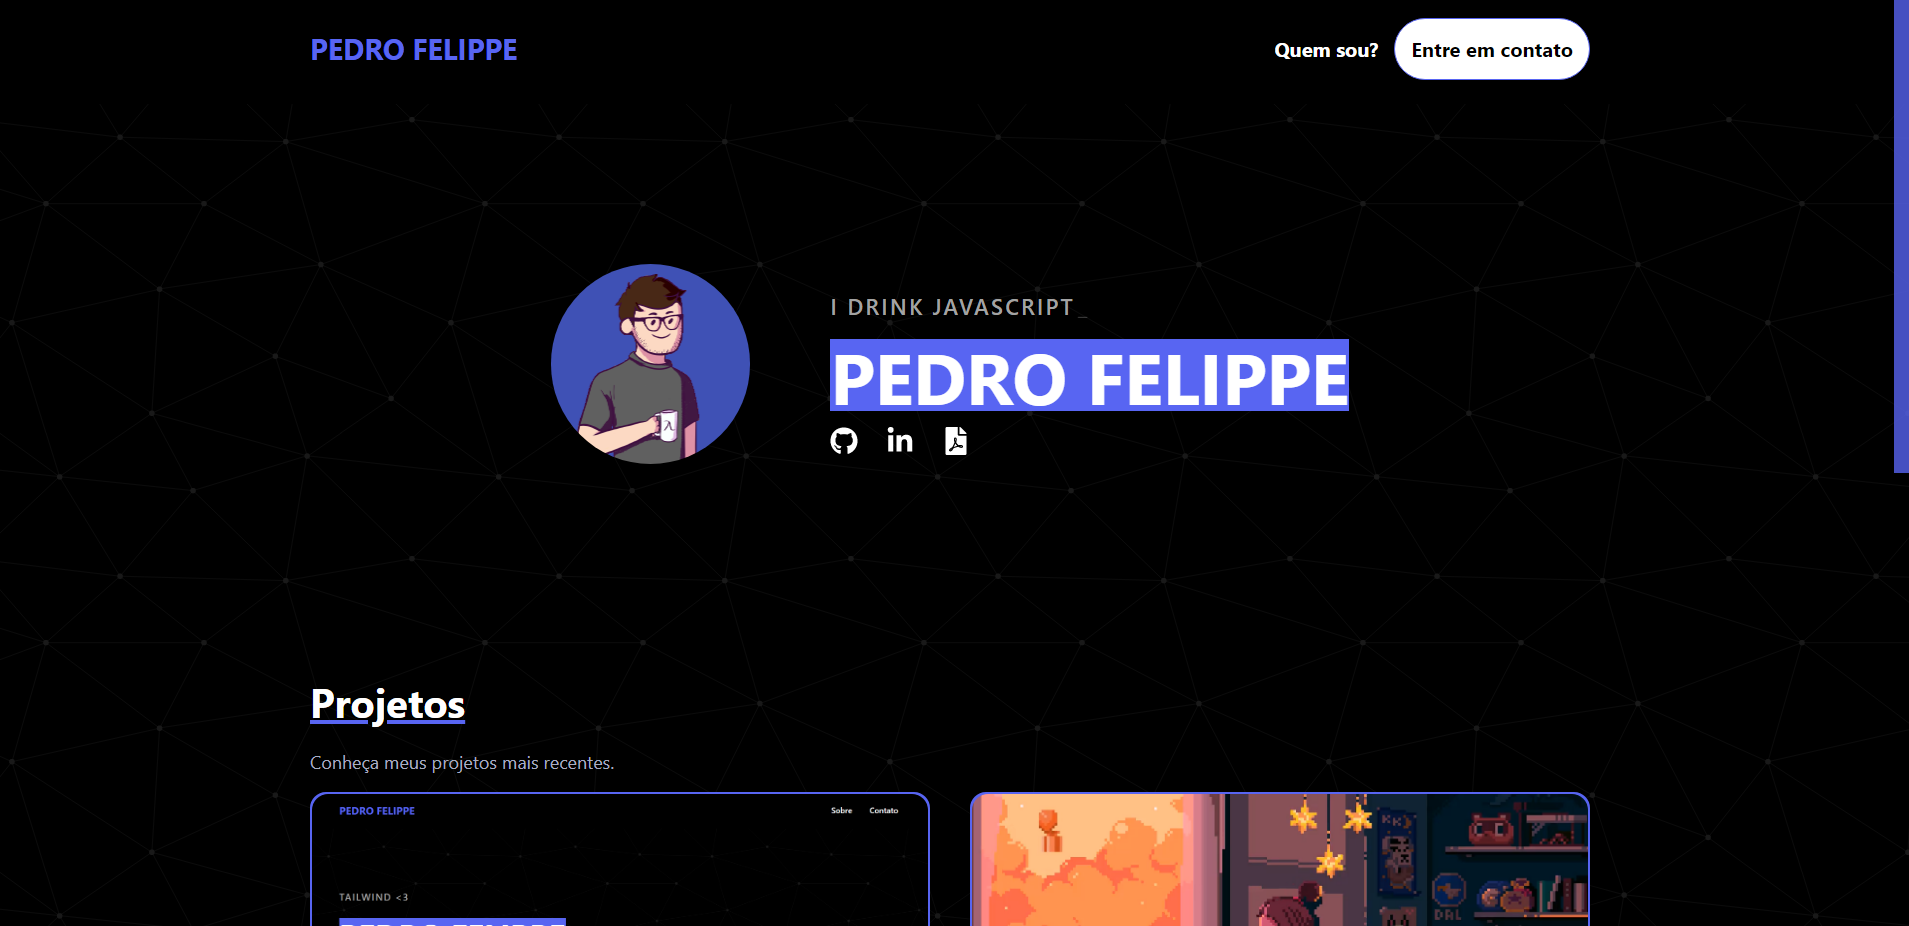
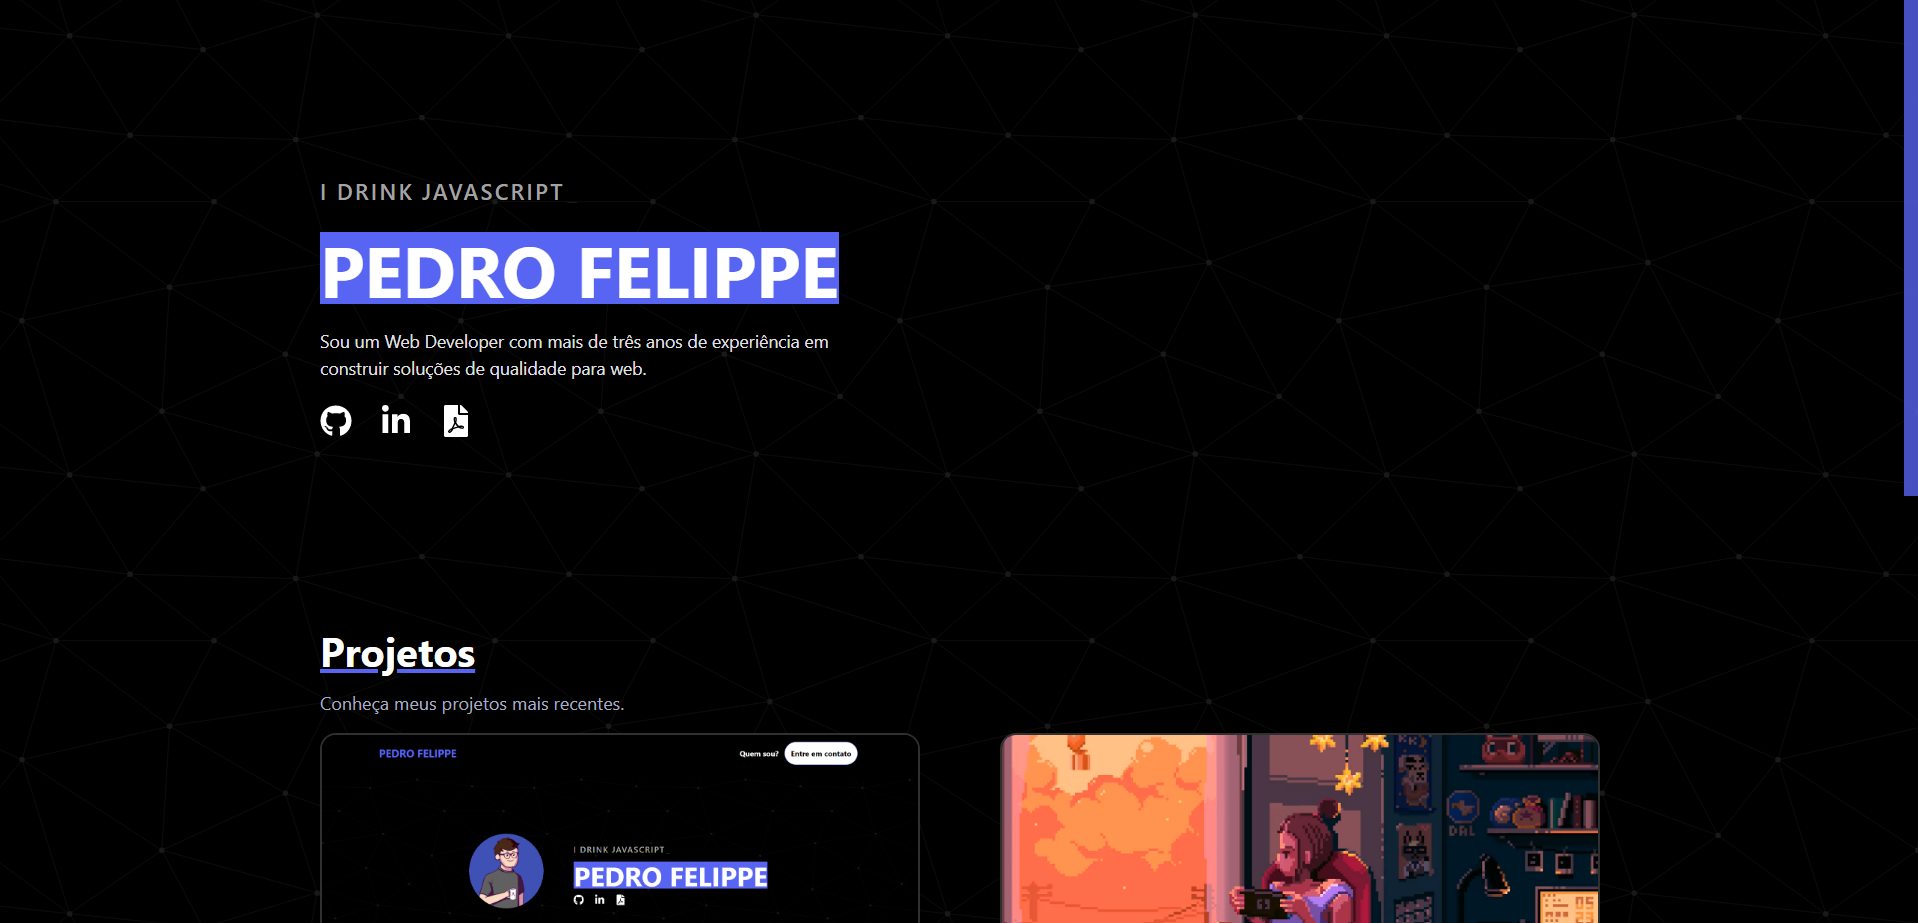
fix css

diff --git a/src/content/Hero.tsx b/src/content/Hero.tsx
@@ -1,5 +1,4 @@
 import { motion } from "framer-motion";
-import Link from "next/link";
 import React from "react";
 import { Typewriter } from "react-simple-typewriter";
 
@@ -8,19 +7,21 @@ import SocialLinks from "../components/SocialLinks";
 export default function Hero() {
   return (
     <motion.div
-      initial={{ y: 25, opacity: 0 }}
-      animate={{ y: 0, opacity: 1 }}
-      transition={{ duration: 1 }}
-      className="relative mx-auto w-full flex max-md:flex-col 
-       items-start max-md:items-center max-w-7xl md:py-20 text-white "
+      initial={{ opacity: 0, x: -50 }}
+      animate={{ opacity: 1, x: 0 }}
+      transition={{ duration: 1.5 }}
+      className="relative mx-auto w-full flex justify-start 
+       items-center max-md:items-center max-w-7xl text-white min-h-[50vh]"
     >
-      <div className="flex flex-col  items-start ">
+      <motion.div
+        initial={{ opacity: 0, x: -50 }}
+        animate={{ opacity: 1, x: 0 }}
+        transition={{ duration: 1.5 }}
+        className="w-fit flex flex-col items-center md:items-start gap-6"
+      >
         <motion.p
-          initial={{ y: -25, opacity: 0 }}
-          animate={{ y: 0, opacity: 1 }}
-          transition={{ duration: 1 }}
-          className="text-[22px] tracking-[2.2px] max-md:mx-auto font-semibold 
-          text-center uppercase text-[#a3a3a3] my-4"
+          className="text-[22px] tracking-[2.2px]   font-semibold 
+          uppercase text-[#a3a3a3] "
         >
           <Typewriter
             words={[
@@ -40,40 +41,27 @@ export default function Hero() {
 
         <p
           className="text-[#fff] text-center uppercase font-bold 
-        text-5xl lg:text-7xl bg-[#5865f2] mb-6 
+        text-4xl lg:text-7xl bg-[#5865f2]  
         "
         >
           Pedro Felippe
         </p>
 
-        <SocialLinks />
+        <p
+          className="w-full flex flex-col h-full max-md:text-center gap-10
+     text-[1.1rem]  text-gray-100 max-w-xl"
+        >
+          Sou um Web Developer com mais de três anos de experiência em construir
+          soluções de qualidade para web.
+        </p>
 
-        {/* <ul className="mx-auto pt-8 list-none  flex  text-white transition-all gap-4 ">
-          <Link
-            className=" flex w-fit hover:underline items-center text-xl font-semibold
-        text-center  text-[#fff] hover:text-[#5865f2] transition-all"
-            href="/about"
-          >
-            <motion.span className="flex gap-4 text-md items-center justify-center px-2 rounded-md py-4 font-bold">
-              <p>Quem sou?</p>
-            </motion.span>
-          </Link>
-          <Link
-            className=" flex w-fit hover:underline  gap-2 items-center text-xl font-semibold
-        text-center rounded-full   bg-[#5865f2] hover:bg-[#5865f2]/80 text-[#fff] transition-all border-[1px] border-[#5865f2]"
-            href="/contact"
-          >
-            <motion.span className="flex gap-2 text-md items-center justify-center px-4 rounded-md py-4 font-bold">
-              <p>Entre em contato</p>
-            </motion.span>
-          </Link>
-        </ul> */}
-      </div>
+        <SocialLinks />
+      </motion.div>
+
       {/* <motion.img
         alt="avatar-pefelippe"
         src="assets/avatar-pdr.png"
-        className="rounded-full   h-[150px]
-      transition-all shadow-md object-fit border-1 border-[#121212]"
+        className="rounded-full h-full max-h-[250px] transition-all shadow-md object-fit "
       /> */}
     </motion.div>
   );

diff --git a/src/components/ProjectCard.tsx b/src/components/ProjectCard.tsx
@@ -1,7 +1,7 @@
 import { motion } from "framer-motion";
 import Link from "next/link";
 import React from "react";
-import { FaArrowRight } from "react-icons/fa";
+import { FaArrowRight, FaGithub } from "react-icons/fa";
 
 type IProjectCard = {
   description: string;
@@ -26,7 +26,7 @@ function ProjectCard({
     <div className="flex flex-col max-w-[600px] max-md:max-w-[400px] mx-auto ">
       <Link
         href={`/projects/${id}`}
-        className="transition-all rounded-2xl border-2 border-[#303030]
+        className="transition-all rounded-2xl border-2 border-[#303030] hover:border-[#505050]
         overflow-hidden min-h-[350px] max-lg:min-h-[250px] "
       >
         <motion.img
@@ -37,17 +37,22 @@ function ProjectCard({
       </Link>
 
       <div
-        className="h-full text-[#fff] flex pt-4
-      w-full justify-start items-start  flex-col gap-2 rounded-b-2xl"
+        className="h-full text-[#fff] flex pt-4 
+      w-full justify-start items-start flex-col gap-2 rounded-b-2xl"
       >
-        <a
-          href={link}
-          target="_blank"
-          className="w-fit text-2xl font-bold underline"
-          rel="noreferrer"
-        >
-          {title}
-        </a>
+        <div className="flex w-full justify-between">
+          <a
+            href={link}
+            target="_blank"
+            className="flex  gap-2 items-center w-fit text-2xl font-bold underline hover:text-gray-500"
+            rel="noreferrer"
+          >
+            {title} <FaArrowRight className="-rotate-45" />
+          </a>
+          <a href={repo} className="p-2 rounded-md  bg-[#303030] hover:bg-[#202020]">
+            <FaGithub className="h-6 w-6 " />
+          </a>
+        </div>
         <p className="w-fit text-lg text-gray-300">{description}</p>
       </div>
     </div>

diff --git a/pages/index.tsx b/pages/index.tsx
@@ -7,9 +7,9 @@ import CallToContact from "../src/components/CallToContact";
 
 export default function Home() {
   return (
-    <div className="w-screen space-y-20 md:space-y-32 py-20 max-xl:px-10 max-w-7xl mx-auto">
+    <div className="w-screen space-y-20 py-20 max-xl:px-10 max-w-7xl mx-auto">
       <Hero />
-      <About />
+      {/* <About /> */}
       <Projects />
       <CallToContact />
     </div>

diff --git a/src/components/CallToContact.tsx b/src/components/CallToContact.tsx
@@ -14,7 +14,7 @@ function CallToContact({}: Props) {
     text-2xl md:py-10"
     >
       <div className="flex flex-col justify-center gap-4 items-start">
-        <ContentTitle title="Entre em contato" />
+        <ContentTitle title="Contato" />
 
         <p className="text-lg text-gray-300 text-center">
           Entre em contato comigo e vamos gerar valor juntos.

diff --git a/src/constants/index.js b/src/constants/index.js
@@ -44,7 +44,7 @@ export const projects = [
     imgUrl: "assets/pomodorotunes.png",
     stack: ["react", "tailwind", "next", "typescript"],
     description:
-      "Nesse projeto tentei uno a tranquilidade do lo-fi com o poderoso método pomodoro.",
+      "Nesse projeto tentei unir a tranquilidade do lo-fi com o poderoso método pomodoro.",
   },
 
   // {
